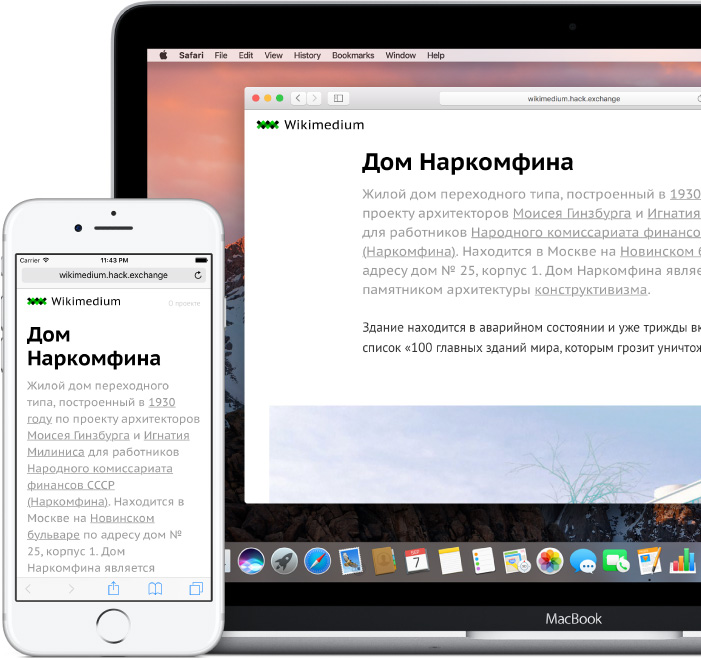
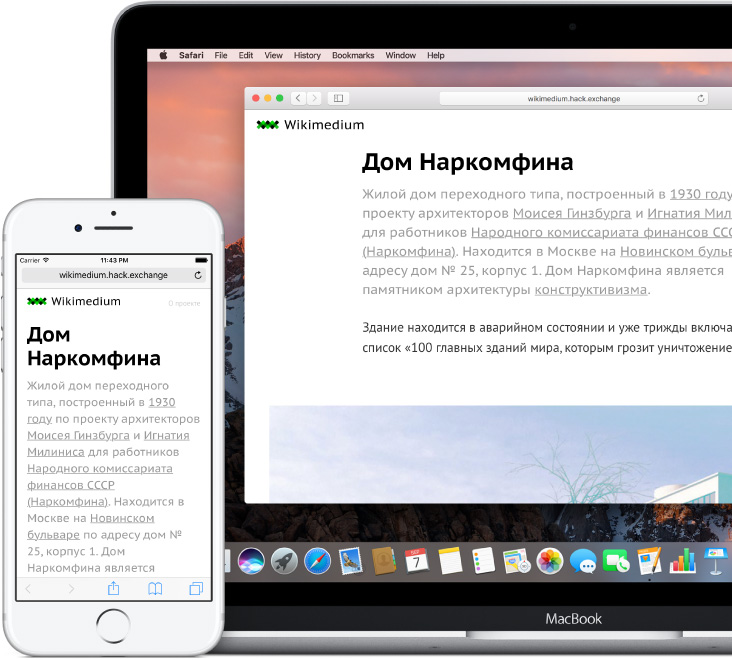
изменнения

diff --git a/alisagrdva/stylesheets/landing.css b/alisagrdva/stylesheets/landing.css
@@ -1,3 +1,13 @@
+body.landing.bg {
+  background-image: url(../images/index_mockup_ipad.png);
+  background-repeat: no-repeat;
+  background-position: top center;
+}
+
+body.landing * {
+  transition: all .3s ease;
+}
+
 .landingWrapper {
   position: relative;
   display: flex;
@@ -6,7 +16,7 @@
   overflow: hidden;
 
   width: 1440px;
-  min-width: 1280px;
+  min-width: 1180px;
   margin: 0 auto;
   box-shadow: 0 0 10px 0 rgba(0,0,0,.1);
 
@@ -84,8 +94,8 @@
 
 #mockup1 {
   top: 115px;
-  right: -85px;
-  width: 701px;
+  right: -116px;
+  width: 732px;
   height: 660px;
   background-image: url(../images/landing/landing-mockup-1.jpg);
 }
@@ -102,8 +112,75 @@
 
 }
 
-@media screen and (max-width:1440px){
+@media screen and (max-width:1460px){
   .landingWrapper {
     width: 100%;
   }
+
+@media screen and (max-width:1180px){
+  body.landing.bg {
+    background-image: url(images/index_mockup_ipad.png);
+  }
+
+  .landingWrapper {
+    width: 100%;
+  }
+
+  .mainSection h2 {
+    font-size: 26px;
+    line-height: 32px;
+  }
+
+  .mainSection p {
+    margin-top: 18px;
+    font-size: 18px;
+    line-height: 27px;
+  }
+
+  .mainSection {
+    width: 1180px;
+    height: 568px;
+  }
+
+  .mainSection section {
+    top: 105px;
+    width: 410px;
+  }
+
+  .mainSection.left section {
+    left: 190px;
+  }
+
+  .mainSection.right section {
+    right: 190px;
+  }
+
+  .mainSection section figure {
+    width: 147px;
+    height: 14px;
+    margin: 100px;
+  }
+
+  .mainSection.left section figure {
+    margin-left: -40px;
+  }
+
+  .mainSection.right section figure {
+    margin-left: 303px;
+  }
+
+  #mockup1 {
+    top: 85px;
+    right: 0;
+    width: 521px;
+    height: 470px;
+  }
+
+  #mockup2 {
+    top: 70px;
+    left: 148px;
+    width: 380px;
+    height: 478px;
+  }
+
 }

diff --git a/alisagrdva/index.html b/alisagrdva/index.html
@@ -21,21 +21,9 @@
     <script src="javascripts/jquery-3.1.1.js"></script>
     <script src="javascripts/social-likes.min.js"></script>
 
-    <style media="screen">
-      body {
-        /*width: 1440px;
-        min-width: 1280px;
-        height: 3200px;
-        margin: 0 auto;*/
-        /*background-image: url(images/wikimedium-mockup.png);*/
-        background-repeat: no-repeat;
-        background-position: top center;
-        /*box-shadow: 0 0 10px rgba(0,0,0,.1);*/
-      }
-    </style>
   </head>
 
-  <body class="landing">
+  <body class="landing ">
     <nav class="menubar">
       <a class="logo" href="posts.html"></a>
       <a class="about" href="index.html">о проекте</a>
